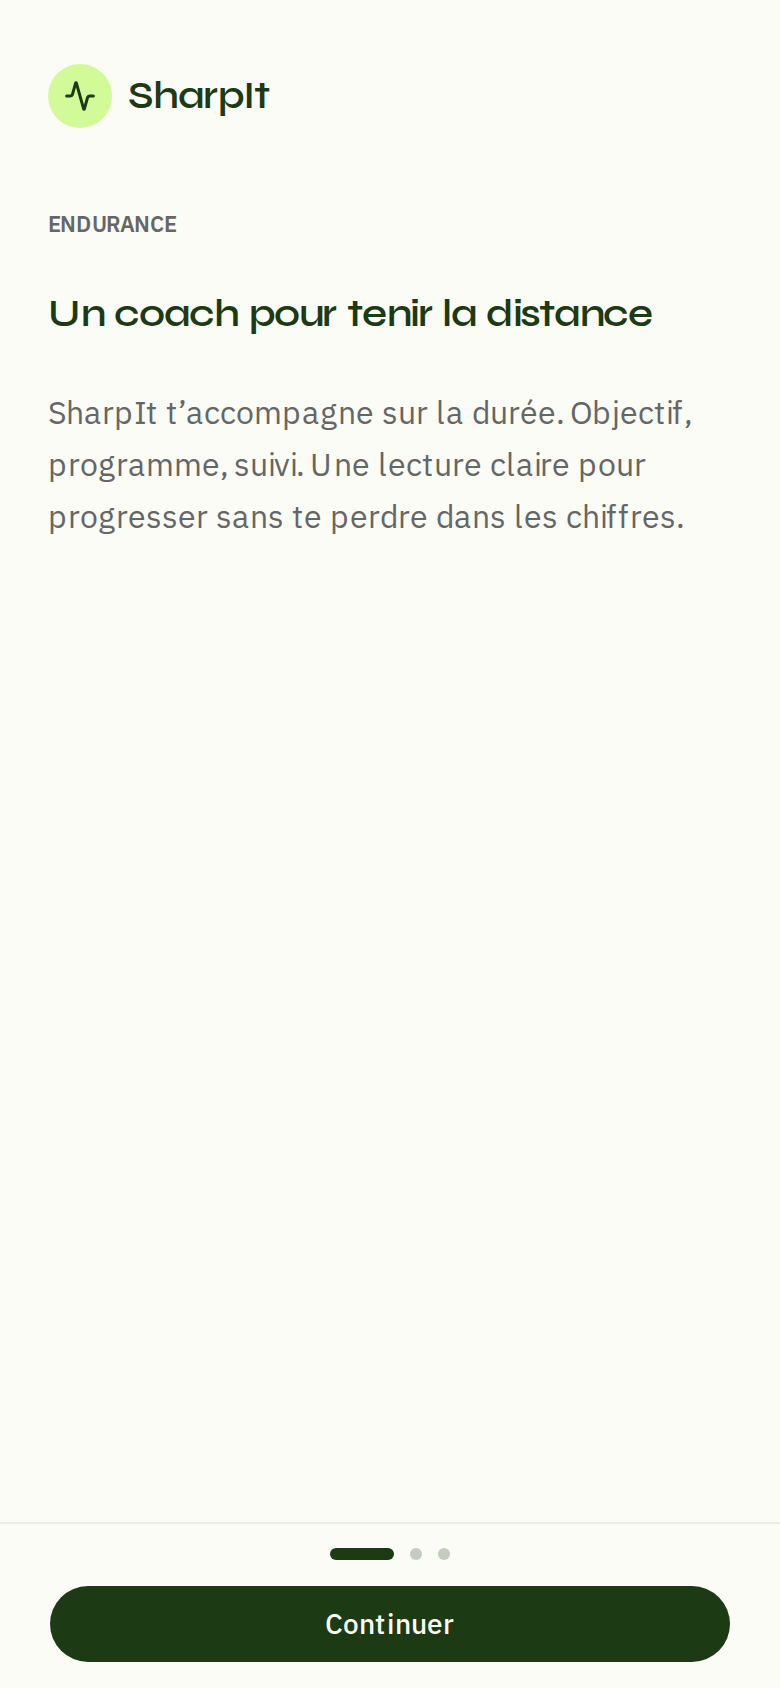
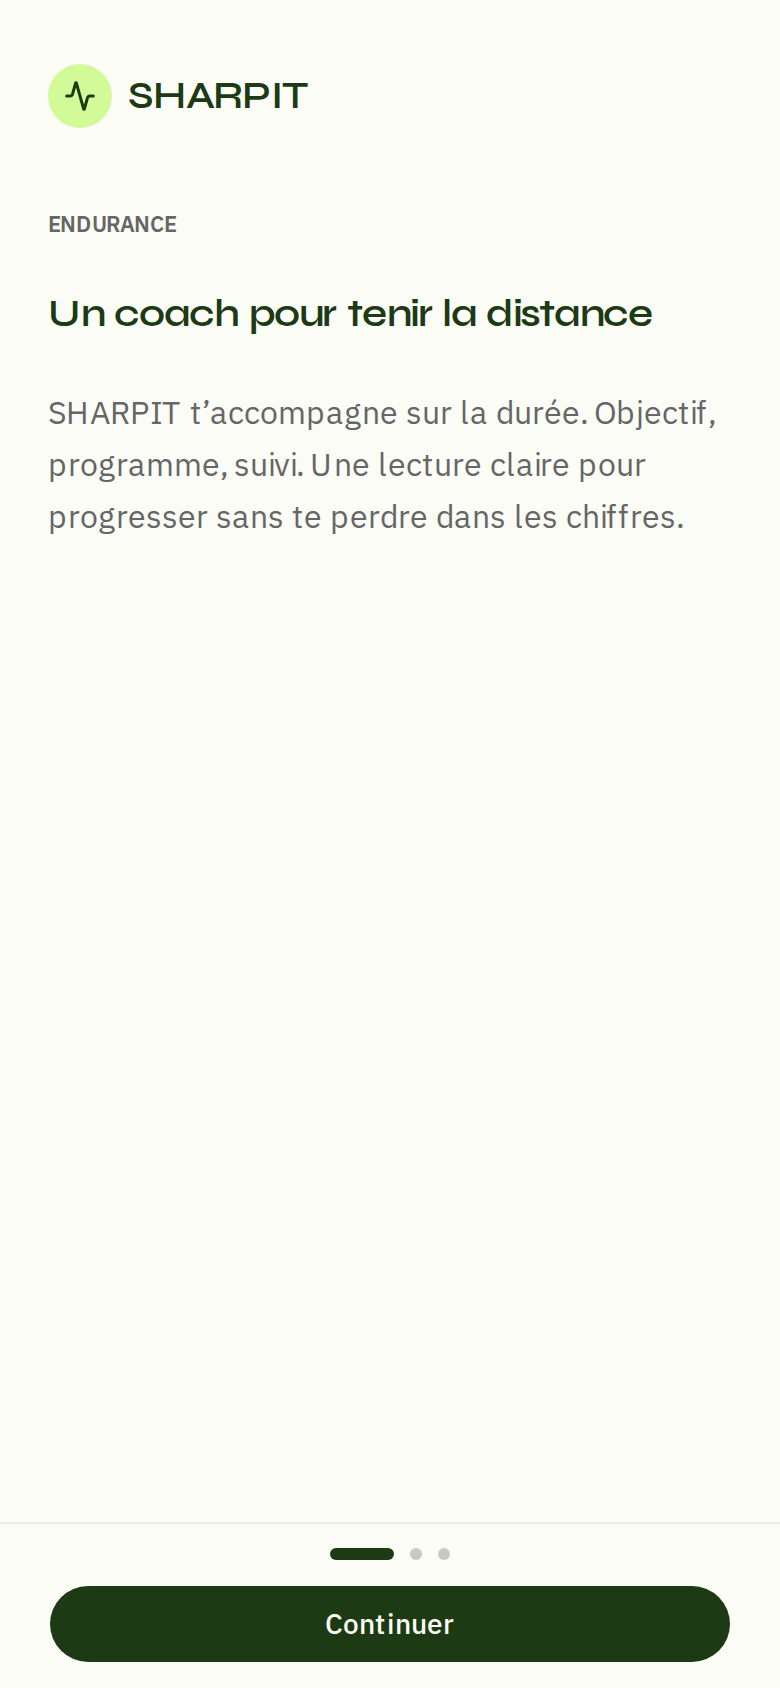
fix: use SHARPIT brand casing on public teaser
Align teaser header, body copy, metadata and Design PNGs to SHARPIT
(Design soft nit on #122).

diff --git a/src/lib/teaser/screens.ts b/src/lib/teaser/screens.ts
@@ -15,7 +15,7 @@ export const TEASER_SCREENS: readonly TeaserScreen[] = [
     id: 'endurance',
     eyebrow: 'Endurance',
     title: 'Un coach pour tenir la distance',
-    body: 'SharpIt t’accompagne sur la durée. Objectif, programme, suivi. Une lecture claire pour progresser sans te perdre dans les chiffres.',
+    body: 'SHARPIT t’accompagne sur la durée. Objectif, programme, suivi. Une lecture claire pour progresser sans te perdre dans les chiffres.',
   },
   {
     id: 'twin',
@@ -27,11 +27,11 @@ export const TEASER_SCREENS: readonly TeaserScreen[] = [
     id: 'morning',
     eyebrow: 'Chaque matin',
     title: 'Décider le matin, avancer le reste du jour',
-    body: 'Ouvre SharpIt. Comprends où tu en es. Choisis la bonne séance, ou le bon repos. Une décision, puis tu passes à autre chose.',
+    body: 'Ouvre SHARPIT. Comprends où tu en es. Choisis la bonne séance, ou le bon repos. Une décision, puis tu passes à autre chose.',
   },
 ] as const;
 
-export const TEASER_BRAND = 'SharpIt';
+export const TEASER_BRAND = 'SHARPIT';
 
 export const TEASER_PRIMARY_CTA = {
   label: 'Créer mon compte',

diff --git a/src/lib/teaser/screens.test.ts b/src/lib/teaser/screens.test.ts
@@ -35,6 +35,10 @@ describe('teaser screens copy', () => {
     expect(copy).not.toMatch(/–/);
   });
 
+  it('never uses SharpIt camelCase on the public teaser', () => {
+    expect(allCopy()).not.toMatch(/SharpIt/);
+  });
+
   it('never implies Art. 9 health processing or a private-circle wall', () => {
     const lower = allCopy().toLowerCase();
     for (const forbidden of TEASER_FORBIDDEN_COPY) {
@@ -42,7 +46,7 @@ describe('teaser screens copy', () => {
     }
   });
 
-  it('keeps brand as SharpIt on the public surface', () => {
-    expect(TEASER_BRAND).toBe('SharpIt');
+  it('keeps brand as SHARPIT on the public surface', () => {
+    expect(TEASER_BRAND).toBe('SHARPIT');
   });
 });

diff --git a/e2e/teaser-welcome.spec.ts b/e2e/teaser-welcome.spec.ts
@@ -12,7 +12,7 @@ test.describe('public teaser funnel', () => {
       page,
       async () => {
         await page.goto('/welcome');
-        await expect(page.getByText('SharpIt').first()).toBeVisible();
+        await expect(page.getByText('SHARPIT').first()).toBeVisible();
         await expect(
           page.getByRole('heading', { name: 'Un coach pour tenir la distance' }),
         ).toBeVisible();

diff --git a/src/app/welcome/page.tsx b/src/app/welcome/page.tsx
@@ -2,7 +2,7 @@ import type { Metadata } from 'next';
 import { TeaserFunnel } from '@/components/teaser/teaser-funnel';
 
 export const metadata: Metadata = {
-  title: 'SharpIt',
+  title: 'SHARPIT',
   description:
     'Coach d’endurance avec Digital Twin. Décide le matin, avance le reste du jour.',
   robots: {
